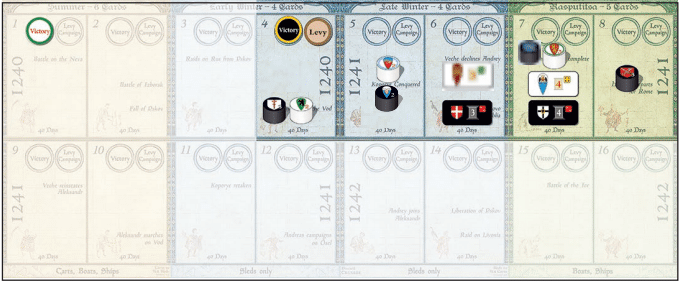
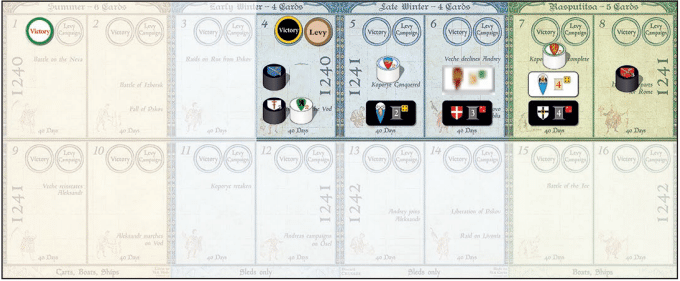
Updated K&A setup and Watland scenario.
Update Knud & Abel reference mat.

Update rulebook.

Update PAC.

diff --git a/data.js b/data.js
@@ -139,7 +139,7 @@ lords:[
 {"side":"Teutonic","name":"Andreas","full_name":"Andreas von Felben","title":"Landmeister in Livonia","seats":[9,13],"marshal":2,"fealty":2,"service":4,"lordship":3,"command":3,"forces":{"knights":1,"sergeants":2,"men_at_arms":1},"assets":{"transport":2,"prov":2},"ships":1,"vassals":[0,1,2],"image":0},
 {"side":"Teutonic","name":"Heinrich","full_name":"Heinrich","title":"Bishop of Ösel-Wiek","seats":[8],"marshal":0,"fealty":3,"service":4,"lordship":2,"command":1,"forces":{"knights":1,"sergeants":1,"men_at_arms":1},"assets":{"coin":1,"ship":2,"prov":1},"ships":1,"vassals":[3,4],"image":1},
 {"side":"Teutonic","name":"Hermann","full_name":"Hermann","title":"Bishop of Dorpat","seats":[7,12],"marshal":1,"fealty":4,"service":4,"lordship":3,"command":3,"forces":{"knights":1,"sergeants":1,"men_at_arms":1,"militia":1},"assets":{"transport":1,"coin":1,"prov":1},"ships":0,"vassals":[5,6,7],"image":2},
-{"side":"Teutonic","name":"Knud & Abel","full_name":"Knud & Abel","title":"Princes of Denmark","seats":[0,1],"marshal":0,"fealty":2,"service":3,"lordship":3,"command":2,"forces":{"knights":1,"sergeants":1,"men_at_arms":2,"militia":1},"assets":{"ship":2,"prov":2},"ships":1,"vassals":[8,9,10],"image":3},
+{"side":"Teutonic","name":"Knud & Abel","full_name":"Knud & Abel","title":"Princes of Denmark","seats":[0,1],"marshal":0,"fealty":2,"service":3,"lordship":3,"command":2,"forces":{"knights":1,"sergeants":1,"men_at_arms":2,"militia":1},"assets":{"coin":1,"ship":2,"prov":2},"ships":1,"vassals":[8,9,10],"image":3},
 {"side":"Teutonic","name":"Rudolf","full_name":"Rudolf von Kassel","title":"Castellan of Wenden","seats":[13],"marshal":0,"fealty":5,"service":2,"lordship":1,"command":3,"forces":{"knights":1,"sergeants":1,"men_at_arms":1},"assets":{"transport":1,"prov":1},"ships":0,"vassals":[11,12,13],"image":4},
 {"side":"Teutonic","name":"Yaroslav","full_name":"Yaroslav","title":"Exile of Pskov","seats":[12],"marshal":0,"fealty":4,"service":2,"lordship":1,"command":2,"forces":{"knights":1,"light_horse":1,"men_at_arms":1},"assets":{"transport":1,"prov":1},"ships":0,"vassals":[14],"image":5},
 {"side":"Russian","name":"Aleksandr","full_name":"Aleksandr","title":"Prince of Novgorod","seats":[24,27],"marshal":2,"fealty":0,"service":6,"lordship":4,"command":3,"forces":{"knights":3,"men_at_arms":2},"assets":{"transport":2},"ships":1,"vassals":[15,16,17,18,19],"image":0},

diff --git a/info/rules.html b/info/rules.html
@@ -54,12 +54,12 @@ RULES OF PLAY
 </h1>
 
 <p style="text-align:center">
-<mark>Second Edition 2023-01-21</mark>
+<mark>Second Edition 2023-06-07</mark>
 
 <blockquote>
 <mark>
 NEVSKY Second Edition Changes
-<br>1.6 Forces for Hermann and Knud & Abel are weaker.
+<br>1.5-1.6 Forces for Hermann and Knud &amp; Abel are weaker. Knud &amp; Abel start with Coin.
 <br>3.1.2-3.1.3 Arts of War "No" cards depart the game when drawn.
 <br>3.3.2 Disband on Campaign counts Servicefrom next Levy.
 <br>3.4.1 Levy Lords drops the exception for Andrey.
@@ -3583,6 +3583,8 @@ Teutons&mdash;
 Andreas at Fellin
 <li>
 Knud &amp; Abel at Wesenberg
+<li>
+Yaroslav at Pskov
 </ul>
 
 <p>
@@ -3605,13 +3607,13 @@ Calendar:
 <li>
 Box 1 has white Victory.
 <li>
-Box 4 has black Victory, Levy, and <mark>Rudolf and Karelians</mark> cylinders.
+Box 4 has black Victory, Levy, and <mark>Heinrich, Rudolf, and Karelians</mark> cylinders.
 <li>
-Box 5 has <mark>Yaroslav and</mark> Andrey cylinders.
+Box 5 has Andrey cylinder and Yaroslav Service..
 <li>
 Box 6 has Knud &amp; Abel <mark>and Vladislav</mark> Service.
 <li>
-Box 7 has <mark>Heinrich and</mark> Aleksandr cylinder and Andreas and Domash Service.
+Box 7 has Aleksandr cylinder and Andreas and Domash Service.
 <li>
 Box 8 has Hermann cylinder.
 </ul>
@@ -3622,7 +3624,7 @@ Remove from Play: Gavrilo cylinder, mat, and Service markers.
 
 <p>
 <mark>
-Victory: To win at scenario end (<a href="#5.3">5.3</a>), the Teutons must have at least 10 VP and must at least double Russian VP. (There is no tie.)
+Victory: To win at scenario end (<a href="#5.3">5.3</a>), the Teutons must have at least 7 VP and must at least double Russian VP. (There is no tie.)
 </mark>
 
 <p>

diff --git a/rules.js b/rules.js
@@ -1744,12 +1744,12 @@ function setup_watland() {
 	muster_lord(LORD_KNUD_ABEL, LOC_WESENBERG, 6)
 	muster_lord(LORD_DOMASH, LOC_NOVGOROD, 7)
 	muster_lord(LORD_VLADISLAV, LOC_LADOGA, 6)
+	muster_lord(LORD_YAROSLAV, LOC_PSKOV, 5)
 
+	set_lord_cylinder_on_calendar(LORD_HEINRICH, 4)
 	set_lord_cylinder_on_calendar(LORD_RUDOLF, 4)
 	set_lord_cylinder_on_calendar(LORD_KARELIANS, 4)
-	set_lord_cylinder_on_calendar(LORD_YAROSLAV, 5)
 	set_lord_cylinder_on_calendar(LORD_ANDREY, 5)
-	set_lord_cylinder_on_calendar(LORD_HEINRICH, 7)
 	set_lord_cylinder_on_calendar(LORD_ALEKSANDR, 7)
 	set_lord_cylinder_on_calendar(LORD_HERMANN, 8)
 }
@@ -10666,8 +10666,8 @@ function goto_game_end() {
 		let vp2 = count_vp2()
 
 		if (game.scenario === "Watland") {
-			if (vp1 < 20)
-				goto_game_over(P2, `Russians won \u2014 Teutons had less than 10 VP.`)
+			if (vp1 < 14)
+				goto_game_over(P2, `Russians won \u2014 Teutons had less than 7 VP.`)
 			else if (vp1 < vp2 * 2)
 				goto_game_over(P2, `Russians won \u2014 Teutons had less than double Russian VP.`)
 			else

diff --git a/info/pac.html b/info/pac.html
@@ -21,24 +21,24 @@ img {
 <body>
 
 <section>
-<img class="portrait" src="pac1_1-fs8.png">
-<img class="portrait" src="pac1_2-fs8.png">
-<img class="portrait" src="pac1_3-fs8.png">
-<img class="portrait" src="pac1_4-fs8.png">
+<img class="portrait" src="pac1_1.jpg">
+<img class="portrait" src="pac1_2.jpg">
+<img class="portrait" src="pac1_3.jpg">
+<img class="portrait" src="pac1_4.jpg">
 </section>
 
 <section>
-<img class="landscape" src="pac3_1-fs8.png">
-<img class="landscape" src="pac3_2-fs8.png">
+<img class="landscape" src="pac3_1.jpg">
+<img class="landscape" src="pac3_2.jpg">
 </section>
 
 <section>
-<img class="landscape" src="pac2_1-fs8.png">
-<img class="landscape" src="pac2_2-fs8.png">
+<img class="landscape" src="pac2_1.jpg">
+<img class="landscape" src="pac2_2.jpg">
 </section>
 
 <section>
-<img class="landscape" src="pac4_2-fs8.png">
-<img class="landscape" src="pac4_1-fs8.png">
+<img class="landscape" src="pac4_2.jpg">
+<img class="landscape" src="pac4_1.jpg">
 </section>
 

diff --git a/tools/gendata.js b/tools/gendata.js
@@ -433,6 +433,7 @@ let lords = [
 			militia: 1,
 		},
 		assets: {
+			coin: 1,
 			ship: 2,
 			prov: 2,
 		},
